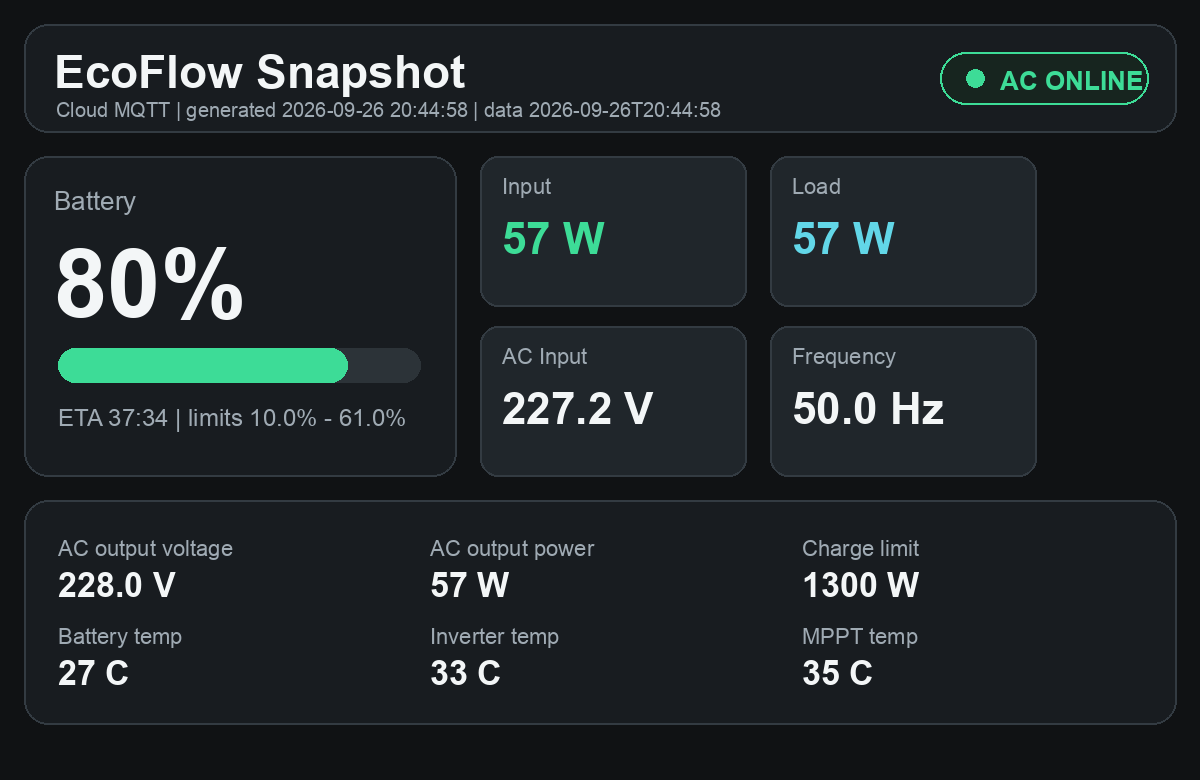
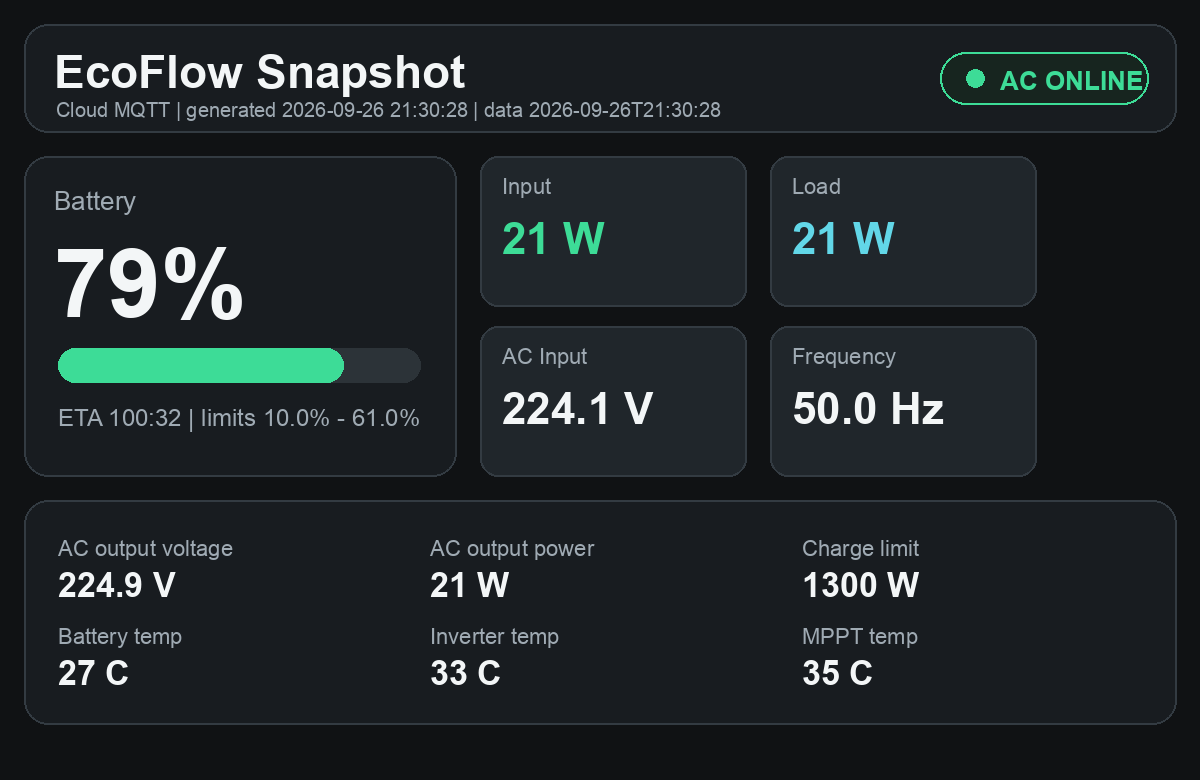
Update EcoFlow dashboard 2026-09-26 21:30:29

diff --git a/index.html b/index.html
@@ -75,7 +75,7 @@
       overflow: hidden;
       margin-top: 14px;
     }
-    .fill { width: 80%; height: 100%; background: linear-gradient(90deg, var(--green), var(--cyan)); }
+    .fill { width: 79%; height: 100%; background: linear-gradient(90deg, var(--green), var(--cyan)); }
     .cards {
       display: grid;
       grid-template-columns: repeat(4, minmax(0, 1fr));
@@ -177,7 +177,7 @@
   <header>
     <div>
       <h1>EcoFlow Snapshot</h1>
-      <div class="sub">Cloud MQTT · generated 2026-09-26T20:44:58 · data 2026-09-26T20:44:58</div>
+      <div class="sub">Cloud MQTT · generated 2026-09-26T21:30:28 · data 2026-09-26T21:30:28</div>
     </div>
     <div class="status online"><span class="dot"></span><span>AC online</span></div>
   </header>
@@ -187,22 +187,22 @@
   <div class="grid">
     <section>
       <h2>Battery</h2>
-      <div class="value">80%</div>
+      <div class="value">79%</div>
       <div class="battery"><div class="fill"></div></div>
-      <div class="row"><span>ETA</span><span>37:34</span></div>
+      <div class="row"><span>ETA</span><span>100:32</span></div>
       <div class="row"><span>SOC limits</span><span>10.0% - 61.0%</span></div>
     </section>
     <section>
       <h2>AC</h2>
-      <div class="row"><span>Input voltage</span><span>227.2 V</span></div>
+      <div class="row"><span>Input voltage</span><span>224.1 V</span></div>
       <div class="row"><span>Input frequency</span><span>50.0 Hz</span></div>
-      <div class="row"><span>Output voltage</span><span>228.0 V</span></div>
+      <div class="row"><span>Output voltage</span><span>224.9 V</span></div>
     </section>
   </div>
 
   <div class="cards">
-    <div class="card"><span class="label">Input</span><span class="value">57 W</span></div>
-    <div class="card"><span class="label">Load</span><span class="value">57 W</span></div>
+    <div class="card"><span class="label">Input</span><span class="value">21 W</span></div>
+    <div class="card"><span class="label">Load</span><span class="value">21 W</span></div>
     <div class="card"><span class="label">Battery temp</span><span class="value">27°C</span></div>
     <div class="card"><span class="label">Inverter temp</span><span class="value">33°C</span></div>
   </div>
@@ -218,7 +218,7 @@
         <div class="daily-item"><span class="label">Заряджання</span><strong>3 хв</strong><small>останнє 26.09 19:13</small></div>
         <div class="daily-item"><span class="label">Розряджання</span><strong>0 сек</strong><small>--</small></div>
         <div class="daily-item"><span class="label">Енергія вхід / вихід</span><strong>283 Wh / 218 Wh</strong><small>оцінка за sample-ами</small></div>
-        <div class="daily-item"><span class="label">Частота min / max</span><strong>50.0 Hz / 50.0 Hz</strong><small>25.09 21:19 / 25.09 21:19</small></div>
+        <div class="daily-item"><span class="label">Частота min / max</span><strong>50.0 Hz / 50.0 Hz</strong><small>25.09 21:50 / 25.09 21:50</small></div>
       </div>
     </section>
     
@@ -241,24 +241,24 @@
   &quot;ok&quot;: true,
   &quot;source&quot;: &quot;Cloud MQTT&quot;,
   &quot;device&quot;: &quot;DELTA Pro&quot;,
-  &quot;timestamp&quot;: &quot;2026-09-26T20:44:58&quot;,
+  &quot;timestamp&quot;: &quot;2026-09-26T21:30:28&quot;,
   &quot;grid&quot;: true,
   &quot;battery&quot;: {
-    &quot;soc&quot;: 80,
+    &quot;soc&quot;: 79,
     &quot;min&quot;: 10.0,
     &quot;max&quot;: 61.0,
-    &quot;eta&quot;: &quot;37:34&quot;
+    &quot;eta&quot;: &quot;100:32&quot;
   },
   &quot;power&quot;: {
-    &quot;in&quot;: 57,
-    &quot;out&quot;: 57,
-    &quot;acOut&quot;: 57,
+    &quot;in&quot;: 21,
+    &quot;out&quot;: 21,
+    &quot;acOut&quot;: 21,
     &quot;chargeLimit&quot;: 1300
   },
   &quot;ac&quot;: {
-    &quot;inputVoltage&quot;: 227.203,
+    &quot;inputVoltage&quot;: 224.094,
     &quot;inputFreq&quot;: 50.0,
-    &quot;outputVoltage&quot;: 228.024
+    &quot;outputVoltage&quot;: 224.892
   },
   &quot;temps&quot;: {
     &quot;battery&quot;: 27,
@@ -308,15 +308,15 @@
   &quot;telemetry&quot;: {
     &quot;window&quot;: &quot;24h&quot;,
     &quot;sample_count&quot;: 32,
-    &quot;from&quot;: &quot;2026-09-25T21:19:11&quot;,
-    &quot;to&quot;: &quot;2026-09-26T20:44:58&quot;,
+    &quot;from&quot;: &quot;2026-09-25T21:50:17&quot;,
+    &quot;to&quot;: &quot;2026-09-26T21:30:28&quot;,
     &quot;latest&quot;: {
       &quot;mode&quot;: &quot;idle&quot;,
       &quot;grid&quot;: true,
-      &quot;soc&quot;: 80.0,
-      &quot;ac_v&quot;: 227.203,
-      &quot;in_w&quot;: 57.0,
-      &quot;out_w&quot;: 57.0,
+      &quot;soc&quot;: 79.0,
+      &quot;ac_v&quot;: 224.094,
+      &quot;in_w&quot;: 21.0,
+      &quot;out_w&quot;: 21.0,
       &quot;charge_limit_w&quot;: 1300.0
     },
     &quot;voltage&quot;: {
@@ -330,11 +330,11 @@
       },
       &quot;frequency_min&quot;: {
         &quot;value&quot;: 50.0,
-        &quot;ts&quot;: &quot;2026-09-25T21:19:11&quot;
+        &quot;ts&quot;: &quot;2026-09-25T21:50:17&quot;
       },
       &quot;frequency_max&quot;: {
         &quot;value&quot;: 50.0,
-        &quot;ts&quot;: &quot;2026-09-25T21:19:11&quot;
+        &quot;ts&quot;: &quot;2026-09-25T21:50:17&quot;
       }
     },
     &quot;soc&quot;: {
@@ -362,8 +362,8 @@
       },
       &quot;charge_limit_w&quot;: 1300.0,
       &quot;max_input_pct_of_current_limit&quot;: 103,
-      &quot;input_wh_est&quot;: 283.2,
-      &quot;load_wh_est&quot;: 218.2
+      &quot;input_wh_est&quot;: 282.9,
+      &quot;load_wh_est&quot;: 217.9
     },
     &quot;modes&quot;: {
       &quot;charging_sec&quot;: 180,
